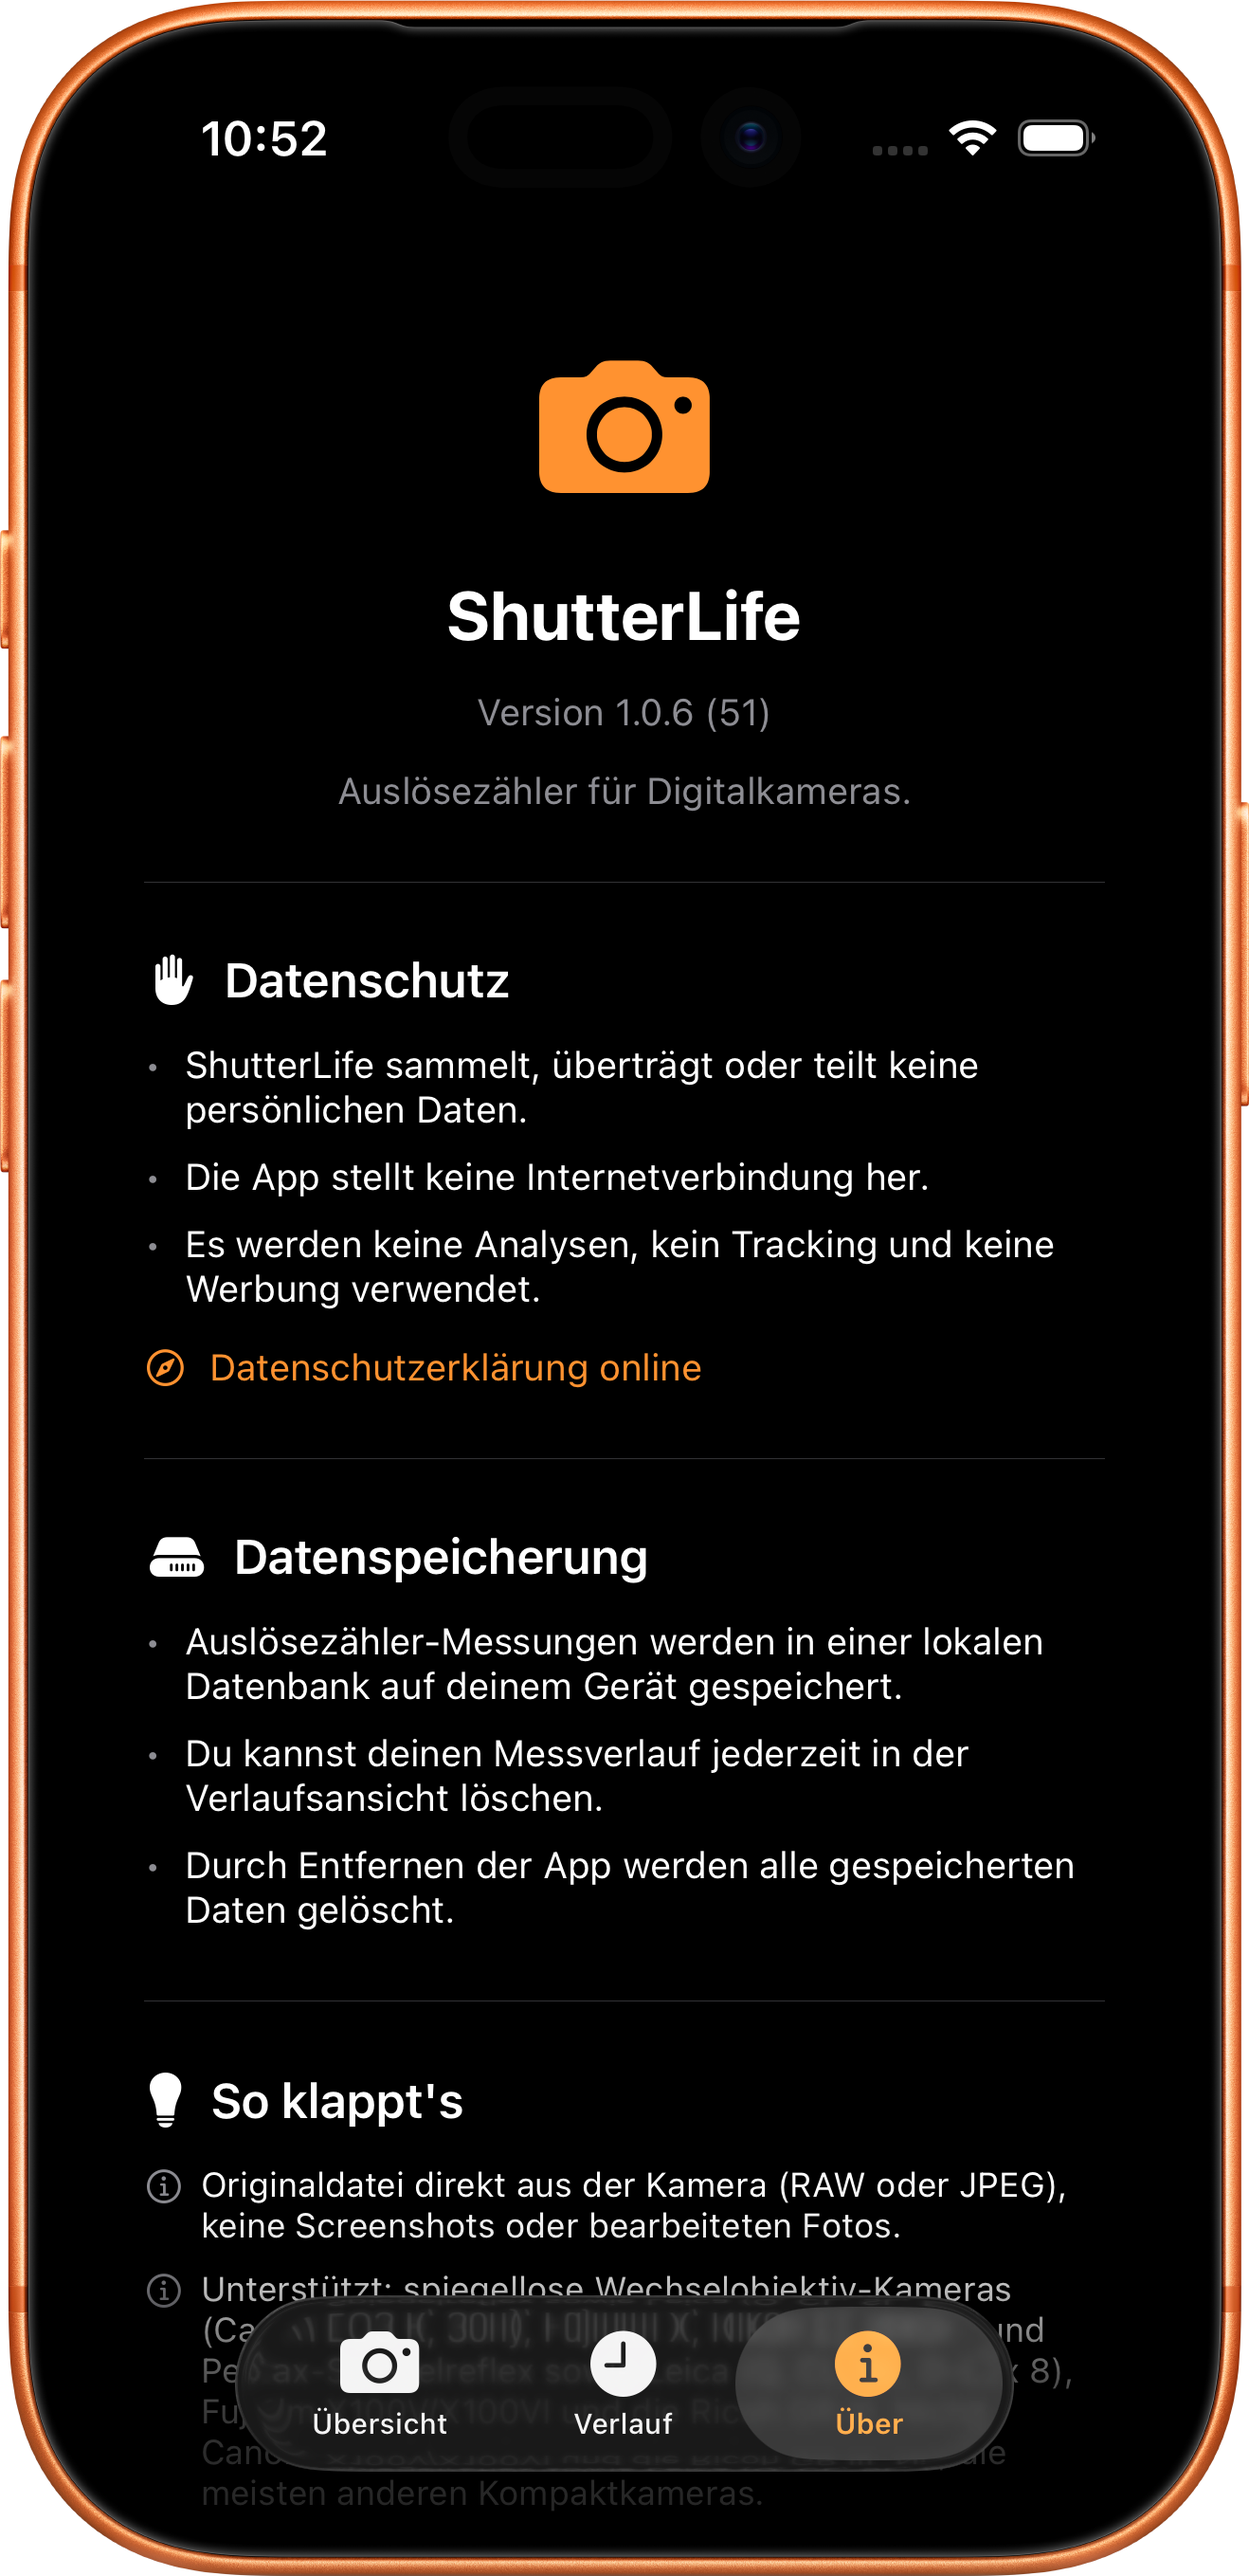
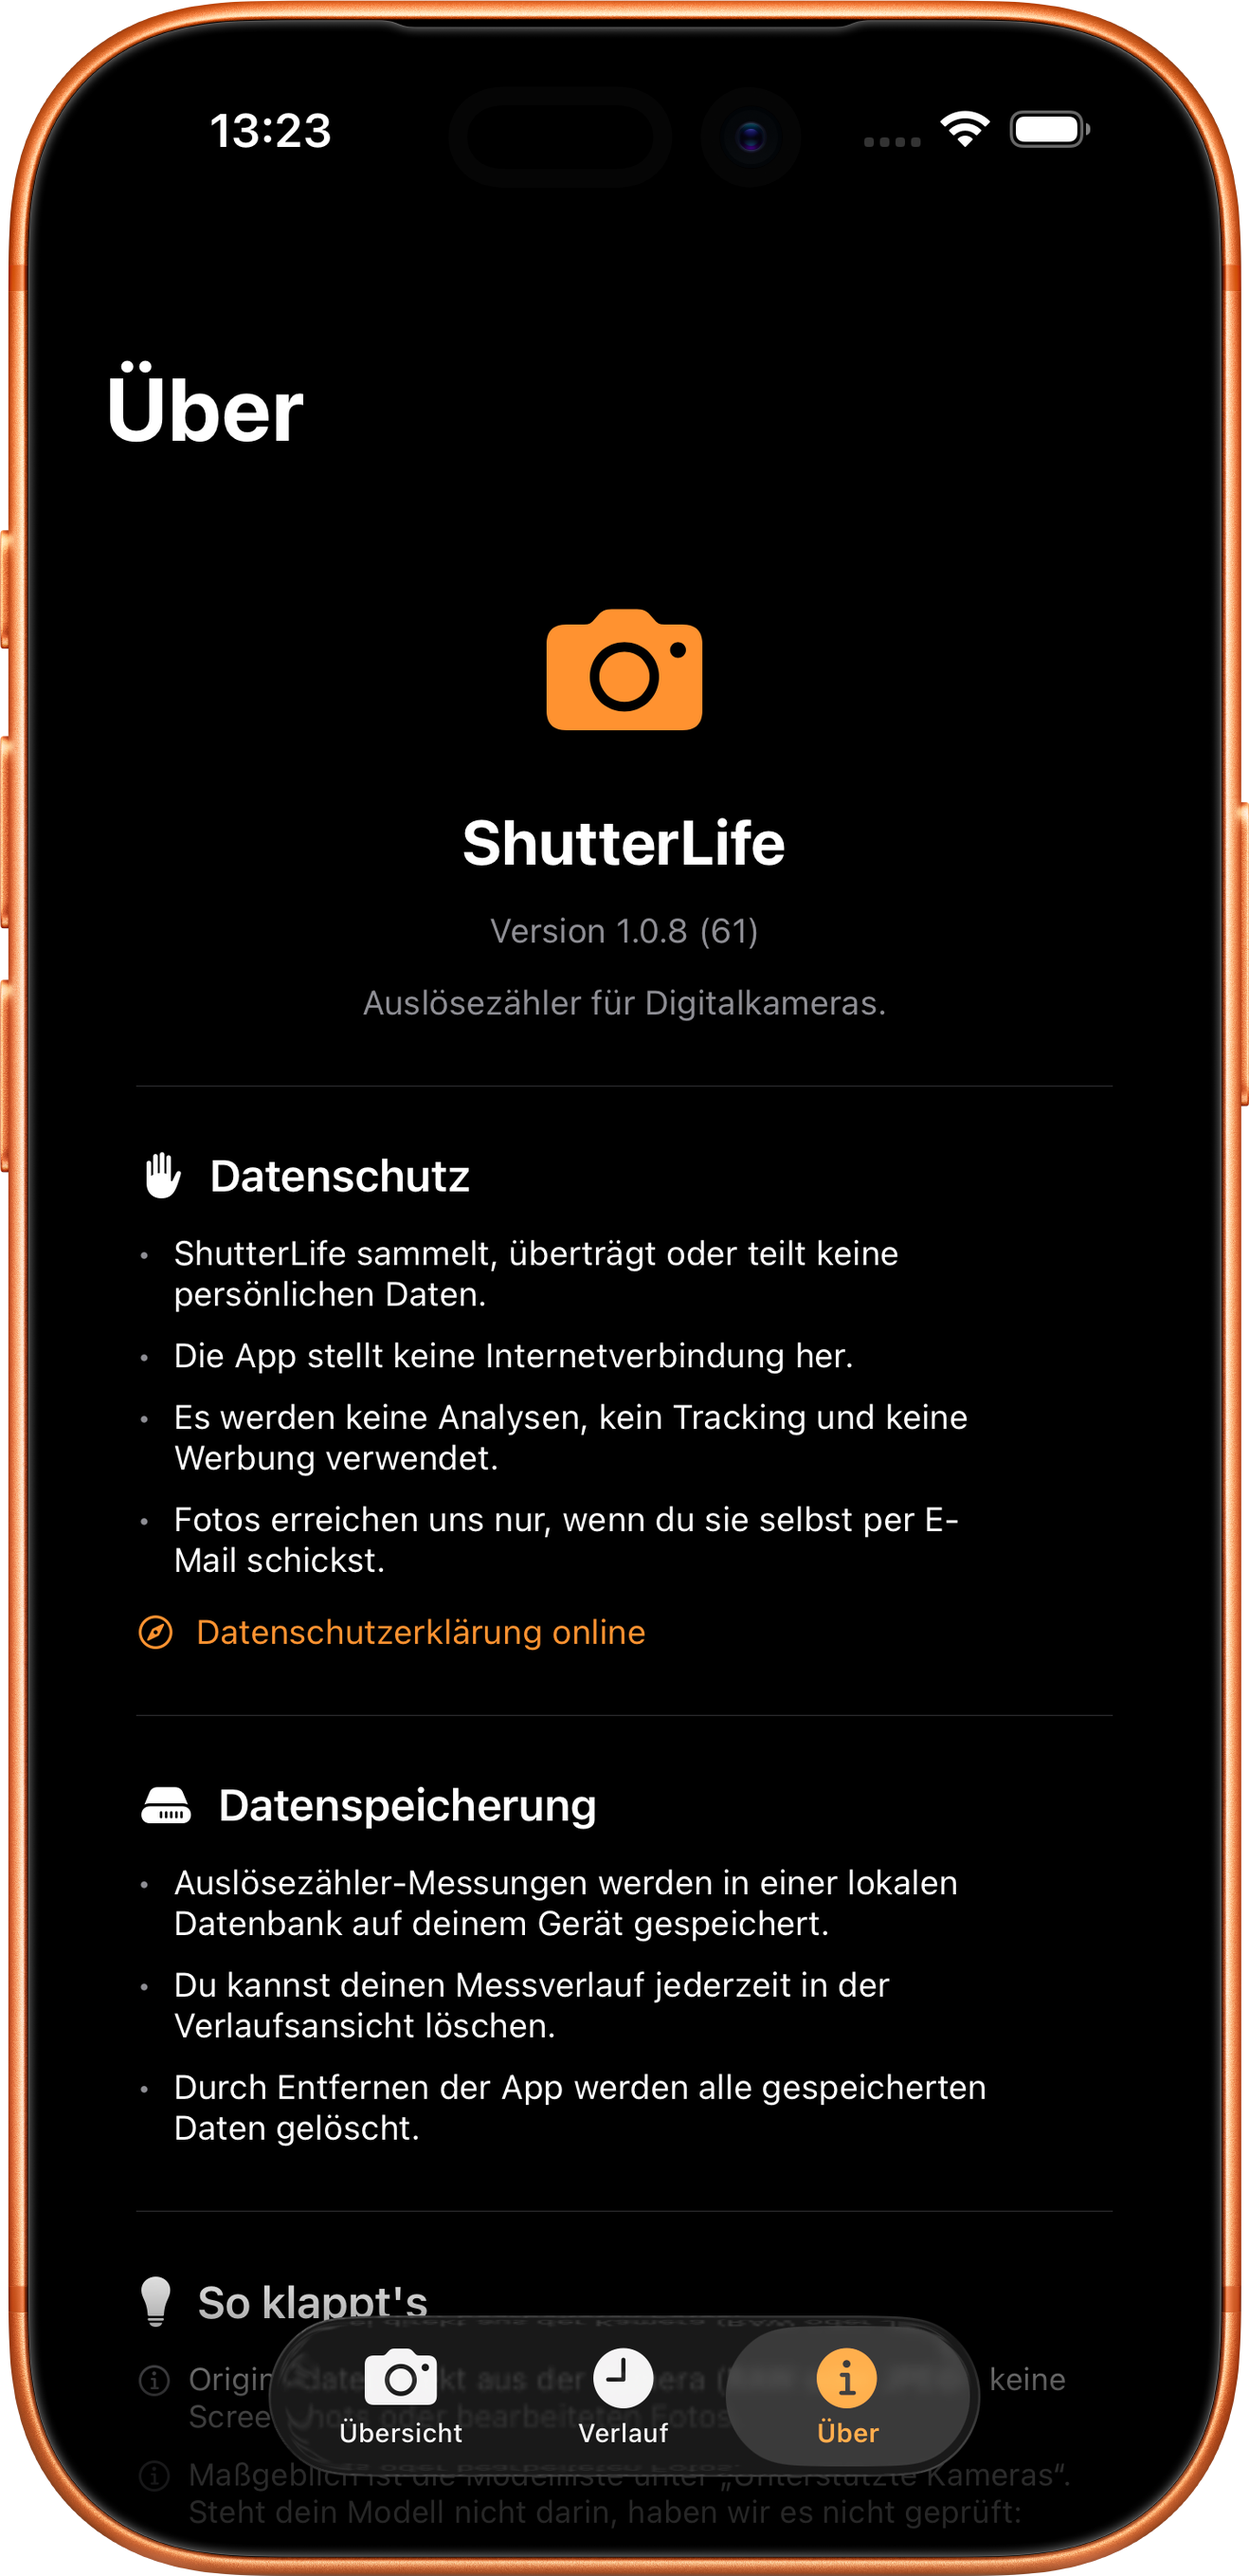
shutterlife: update obligation added, about-shot refreshed to 1.0.8, dates pulled straight
Aktualisierungen (§ 327f BGB): Neuer Abschnitt in beiden Sprachfassungen der
Nutzungsbedingungen. Owner-Entscheid 04.09.2026: zwei Jahre. Bezugspunkt ist
der KAUF, nicht der App-Release — eine feste Jahreszahl waere bei spaeteren
Kaeufern eine Unterschreitung des gesetzlichen Mindeststandards und nach
§ 327s BGB unwirksam.

Bild: apps/screenshots/framed/{de,en}/sl-04.png zeigte "Version 1.0.6 (51)",
live ist 1.0.8. Neu erzeugt aus AppStore/Screenshots/{de,en}/ios_05_about.png
mit tools/frame-screenshot.py. Der neue Stand hat einen vierten
Datenschutz-Punkt ("Fotos erreichen uns nur, wenn du sie selbst per E-Mail
schickst"), den das alte Bild nicht kannte.

Datumsangaben: Studio-Impressum und Studio-Datenschutz standen auf 25. Juni,
wurden aber heute bei der Adress-Umstellung geaendert. Nachgezogen, ebenso die
Nutzungsbedingungen.

Claude-Session: https://claude.ai/code/session_0133Fpri7UfYUULkkCMNAQTw

diff --git a/shutterlife/terms/de.html b/shutterlife/terms/de.html
@@ -51,7 +51,7 @@
             <a href="../../" class="back-link">&larr; Alle Apps</a>
             <p class="subpage-eyebrow">ShutterLife</p>
             <h1 class="page-title">Wichtige Hinweise</h1>
-            <p class="date">Zuletzt aktualisiert: 28. August 2026</p>
+            <p class="date">Zuletzt aktualisiert: 4. September 2026</p>
 
             <article class="legal-content">
 
@@ -79,6 +79,9 @@
         <p>Apple bestimmt im Apple Developer Program License Agreement bzw. in den Apple Media Services Terms Apple Distribution International Ltd. (Cork, Irland) als „eingetragenen Händler" (merchant of record) für den EU-Vertrieb. Gewährleistungs- und Mängelansprüche nach dem Kaufrecht (§§ 327 ff. BGB) können daher in der Regel gegen Apple Distribution International Ltd. geltend gemacht werden. Etwaige gesetzliche Ansprüche, die unmittelbar gegen den Entwickler bestehen sollten, bleiben unberührt. Wende dich in diesem Fall an die im Impressum genannten Kontaktwege.</p>
         <p>ShutterLife strebt die Genauigkeit der angezeigten Auslösezähler-Werte an. Die Werte können je nach Kameramodell, Firmware-Version und Bildformat variieren; der Prozentwert bezieht sich auf die vom Hersteller geprüfte Mindestschwelle und sagt nichts über die Restlebensdauer aus.</p>
         <p>Im Rahmen des gesetzlich Zulässigen haftet der Entwickler nicht für mittelbare Schäden oder Folgeschäden aus der Nutzung der App, einschließlich Entscheidungen, die auf Grundlage von Auslösezähler-Werten oder Schwellen-Angaben getroffen werden. Die Haftung für Vorsatz und grobe Fahrlässigkeit, für die Verletzung von Leben, Körper und Gesundheit sowie für die Verletzung wesentlicher Vertragspflichten (Kardinalpflichten) bleibt unberührt.</p>
+
+                <h2>Aktualisierungen</h2>
+        <p>Wir stellen für ShutterLife Aktualisierungen bereit, die die App funktionsfähig und sicher halten, und zwar für mindestens zwei Jahre ab deinem Kauf. Dazu gehören die Anpassung an neue iOS- und macOS-Hauptversionen sowie die Behebung von Fehlern, die das Auslesen des Auslösezählers beeinträchtigen. Funktionserweiterungen und die Aufnahme neuer Kameramodelle sind davon nicht erfasst. Deine gesetzlichen Rechte nach den §§ 327 ff. BGB bleiben unberührt.</p>
 
         <h2>Kontakt</h2>
         <p>Fragen? Kontaktiere uns unter <strong>support@casystudio.com</strong></p>

diff --git a/shutterlife/terms/index.html b/shutterlife/terms/index.html
@@ -80,6 +80,9 @@
         <p>ShutterLife strives for the accuracy of the displayed shutter count values. Values may vary depending on camera model, firmware version, and image format; the percentage shown refers to the manufacturer's tested minimum threshold and says nothing about remaining life.</p>
         <p>To the extent permitted by law, the developer is not liable for indirect or consequential damages arising from the use of the app, including decisions made based on shutter count readings. Liability for intent and gross negligence, for injury to life, body, or health, and for the breach of essential contractual obligations (cardinal obligations) remains unaffected.</p>
 
+                <h2>Updates</h2>
+        <p>We provide updates that keep ShutterLife functional and secure for at least two years from your purchase. This covers adapting the app to new major iOS and macOS releases and fixing defects that impair reading the shutter count. It does not cover new features or the addition of new camera models. Your statutory rights under sections 327 et seq. of the German Civil Code remain unaffected.</p>
+
         <h2>Contact</h2>
         <p>Questions? Contact us at <strong>support@casystudio.com</strong></p>
 

diff --git a/datenschutz/de.html b/datenschutz/de.html
@@ -51,7 +51,7 @@
             <a href="../" class="back-link">&larr; Startseite</a>
             <p class="subpage-eyebrow">Casy Studio</p>
             <h1 class="page-title">Datenschutzerklärung</h1>
-            <p class="date">Zuletzt aktualisiert: 25. Juni 2026</p>
+            <p class="date">Zuletzt aktualisiert: 4. September 2026</p>
 
             <nav class="toc" aria-label="Inhaltsverzeichnis">
                 <p class="toc__title">Abschnitte</p>

diff --git a/impressum/de.html b/impressum/de.html
@@ -51,7 +51,7 @@
             <a href="../" class="back-link">&larr; Startseite</a>
             <p class="subpage-eyebrow">Casy Studio</p>
             <h1 class="page-title">Impressum</h1>
-            <p class="date">Zuletzt aktualisiert: 25. Juni 2026</p>
+            <p class="date">Zuletzt aktualisiert: 4. September 2026</p>
 
             <article class="legal-content">
                 <h2>Angaben gemäß &sect; 5 DDG</h2>

diff --git a/datenschutz/index.html b/datenschutz/index.html
@@ -51,7 +51,7 @@
             <a href="../" class="back-link">&larr; Home</a>
             <p class="subpage-eyebrow">Casy Studio</p>
             <h1 class="page-title">Privacy Policy</h1>
-            <p class="date">Last updated: June 25, 2026</p>
+            <p class="date">Last updated: September 4, 2026</p>
 
             <nav class="toc" aria-label="Table of contents">
                 <p class="toc__title">Sections</p>

diff --git a/impressum/index.html b/impressum/index.html
@@ -51,7 +51,7 @@
             <a href="../" class="back-link">&larr; Home</a>
             <p class="subpage-eyebrow">Casy Studio</p>
             <h1 class="page-title">Legal Notice</h1>
-            <p class="date">Last updated: June 25, 2026</p>
+            <p class="date">Last updated: September 4, 2026</p>
 
             <article class="legal-content">
                 <h2>Information pursuant to Section 5 DDG</h2>
